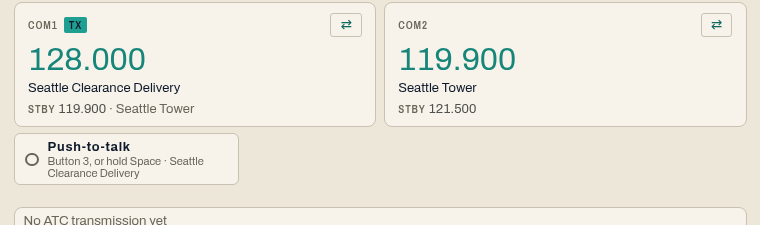
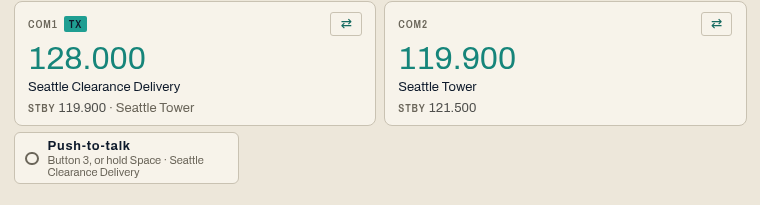
SOT-240: review fixes (Settings paths, Mac rename note, Learn button, prerelease row, crop)

diff --git a/AGENTS.md b/AGENTS.md
@@ -30,7 +30,7 @@ The public documentation site for SeventyOneTen, AI air traffic control for X-Pl
   - the first release is suggested as `v1.0.0`; until it is cut, the site at the root is the old, unversioned build.
 - **A full audit of the site** (owner, 2026-10-19, verbatim: "Are you review the docs page for other updates?"). Every page was checked against the latest stable releases (client 0.19.0, gateway 0.8.2, pilot site 0.7.0) and, where it matters, the client's 0.20 prerelease. What came out of it, as rules for the next change:
   - **Settings is one scrolling page of six sections** under a sticky row of buttons since client 0.17.0: **Your setup**, **How ATC sounds**, **X-Plane data**, **Your account**, **Appearance**, **Advanced**. `docs/settings.md` follows the window's section names and field labels exactly; the old "General" and "X-Plane data" tabs and the **Settings > Audio**, **Settings > Display** and **Settings > Simulator** paths are gone from the site. Change them together when the window changes. **(Superseded 2026-11-16, SOT-240: Settings is now one section at a time, seven sections, with a Save bar; see the entry below.)**
-  - **"Gateway" is not a pilot-facing word** (the Coordinator's rule for this audit; it extends the cloud-wording rule above and replaces the diagram's "voice gateway" with "the ATC service"). The one place it stays is the services pill's own label, **Gateway: connected**, and the header's **Gateway** version, because the pilot has to find them in the window and the client still shows them (its own `tests/test_pilot_words.py` lists them as waiting for the owner). Quote the label once, describe it as the connection to the ATC service, and drop the word when the client drops it. The same goes for **Scribe**, which is a label of the Speech recognition setting. **(Superseded 2026-11-16, SOT-240: the client says "ATC service" everywhere, so the pill and the version line are no longer exceptions.)**
+  - **"Gateway" is not a pilot-facing word** (the Coordinator's rule for this audit; it extends the cloud-wording rule above and replaces the diagram's "voice gateway" with "the ATC service"). The one place it stays is the services pill's own label, **Gateway: connected**, and the header's **Gateway** version, because the pilot has to find them in the window and the client still shows them (its own `tests/test_pilot_words.py` lists them as waiting for the owner). Quote the label once, describe it as the connection to the ATC service, and drop the word when the client drops it. The same goes for **Scribe**, which is a label of the Speech recognition setting. **(Superseded 2026-11-16, SOT-240: the client says "ATC service" everywhere, so the pill and the version line are no longer exceptions. The sentence about **Scribe** still stands: the client still says "Scribe, which knows your flight's names".)**
   - **"Training" is not a pilot-facing word** either, except in the quoted ATC phrase "unable, I have not completed that training" (ATC's own words; it was already on the site, in `docs/index.md`, `docs/features/`, `docs/how-it-works.md` and `docs/known-limitations.md`, before the audit, and the audit kept it as an accepted quote) and in the disclaimer sentence below (owner, 2026-10-19). Do not remove either in a later audit. The audit's first version of the home page's disclaimer read "It must never be used for real-world flying, flight instruction or navigation." and the owner then added the sentence in the next entry.
   - **Linux is a prerelease until a stable client carries it.** The AppImage first shipped in client 0.20.0-rc.3; stable is 0.19.0. `docs/install-linux.md`, the home page, `docs/known-limitations.md` and Settings (Updates) say so, and the note goes when a stable release carries Linux. The Mac page stays "coming soon". (Superseded 2026-10-28: the Mac is a prerelease like Linux; see the refresh entry below.)
   - **Screenshots must not show a voice name.** The two window screenshots (client 0.9.2: an older layout, a Gateway version in the header and voice names at the end of the log lines) were taken out of the pages and the repository, because the owner's voice rules (2026-10-13, above) forbid showing a voice name. New ones need to come from the current client's demo data (`scripts/panel_shots.py` in the client), with the log lines as the current window draws them, and then go back on the home page and `docs/window.md`.

diff --git a/docs/settings.md b/docs/settings.md
@@ -65,7 +65,7 @@ The radio voices are off by default. With them on, each controller on the radio 
 
 ## Push-to-talk
 
-Holding **Space** on the Radio view always transmits. **Also transmit with** adds one more way:
+During a flight, holding **Space** on the Radio view always transmits. **Also transmit with** adds one more way:
 
 | Choice | What it does |
 |---|---|
@@ -78,9 +78,9 @@ Holding **Space** on the Radio view always transmits. **Also transmit with** add
 |---|---|
 | ![The push-to-talk button in the window](assets/client-ptt-button.png) | ![The thin transmit light that replaces it](assets/client-ptt-light.png) |
 
-For a yoke or joystick button, press **Learn button**, then press and release the button you want within 10 seconds. X-Plane must be running. The client reads the button through X-Plane, so anything X-Plane sees as a joystick button works. The client says "Learned button 5 and saved it" (with your button's number), and **Button index** shows it. To go back to the button in the window, set **Also transmit with** to **Only this window**.
+For a yoke or joystick button, first choose **A yoke or joystick button, through X-Plane**: **Learn button** and **Button index** appear then. Press **Learn button**, then press and release the button you want within 10 seconds. X-Plane must be running. The client reads the button through X-Plane, so anything X-Plane sees as a joystick button works. The client says "Learned button 5 and saved it" (with your button's number), and **Button index** shows it. To go back to the button in the window, set **Also transmit with** to **Only this window**.
 
-(When you run the client from a console window, there is a third choice, **Enter in the console window (toggles)**. The installed app has no console, so it does not show it.)
+(When you run the client from a console window, **Advanced** has a row to transmit with Enter in that window. The installed app has no console, so it does not show it.)
 
 ### Phone calls
 
@@ -124,7 +124,7 @@ This part installs the FAA's current procedures into your X-Plane, and takes the
 The installed app asks the pilot site for the newest version when it starts, and once a day while it is open. A newer version shows a banner above the views: **What changed**, **Update now** and **Later**. The banner waits until your flight has ended, and nothing is installed during a flight. **Update now** downloads the new version, checks it, installs it, and the app opens again by itself. On Windows it runs the installer; on Linux it replaces the AppImage file (see [Install on Linux](install-linux.md#updates)); on a Mac it replaces the app, which must be in Applications or another folder you can write to (see [Install on a Mac](install-mac.md#updates)). **Later** puts that version off until a newer one comes, or until you start the app again.
 
 - **Check now** checks on request, and says if it could not.
-- **Receive prereleases: early versions, to try before everyone gets them** is off unless you turn it on. On, you are offered early versions too. A prerelease is a build for testing; it can have faults, and a later change to the service can stop it working until you update. Turn it on only if you have been asked to.
+- **Receive prereleases: early versions, to try before everyone gets them** is shown only on accounts that may receive prereleases. It is off unless you turn it on. On, you are offered early versions too. A prerelease is a build for testing; it can have faults, and a later change to the service can stop it working until you update. Turn it on only if you have been asked to.
 - If ATC needs a newer client than yours, the banner says **Update required** and has no **Later**.
 
 ### App menu (Linux AppImage)

diff --git a/docs/install-mac.md b/docs/install-mac.md
@@ -28,6 +28,9 @@ The Mac app is new and has been run by fewer pilots than the Windows one. If som
 
 If you said no by mistake, open *System Settings > Privacy & Security > Microphone* and switch on **SeventyOneTen**.
 
+!!! note "Installed it before the rename?"
+    An app installed before this release can keep its old name in Applications until its next update; it is the same app. A Dock icon pinned to the old app may need pinning again. When you remove the app, remove whichever name you have in Applications.
+
 From here, [set up and sign in](getting-started.md#set-up-the-first-time) exactly as on Windows.
 
 ## Is this the right file?
@@ -50,7 +53,7 @@ The app asks the pilot site for the newest version when it starts, and once a da
 
 **Update now** downloads the new version, checks that it is the release that was offered and that it is this app, replaces the app and opens it again by itself. If anything is wrong, your old app is left as it was and the banner says why.
 
-Because it replaces the app, the app must be in **Applications** (or another folder you can write to). An app opened straight from the disk image, or left in Downloads, is not updated: move it to Applications first. Until the Mac app is in a stable release, newer Mac builds are prereleases, and the app offers a prerelease only when **Receive prereleases** is on in **Settings > Your account > Updates**: see [Updates](settings.md#updates).
+Because it replaces the app, the app must be in **Applications** (or another folder you can write to). An app opened straight from the disk image, or left in Downloads, is not updated: move it to Applications first. Until the Mac app is in a stable release, newer Mac builds are prereleases, and the app offers a prerelease only when **Receive prereleases** is on in **Settings > Account > Updates**: see [Updates](settings.md#updates).
 
 ## Where things are kept
 

diff --git a/docs/troubleshooting.md b/docs/troubleshooting.md
@@ -46,7 +46,7 @@ Nothing is sent to ATC when a press is refused.
 
 Your microphone is not reaching the client.
 
-- *Windows Settings > Privacy & security > Microphone*: allow desktop apps. On a Mac, open *System Settings > Privacy & Security > Microphone* and switch on **SeventyOneTen**. On Linux, check your desktop's sound settings and that the microphone is not muted.
+- *Windows Settings > Privacy & security > Microphone*: allow desktop apps. On a Mac, open *System Settings > Privacy & Security > Microphone* and switch on **SeventyOneTen** (an app installed before the rename may still carry its old name in Applications until its next update). On Linux, check your desktop's sound settings and that the microphone is not muted.
 - **Settings > Sound > Audio > Microphone**: pick the right device. **Test microphone**, just below, shows a level meter and says **We can hear you** when the microphone works.
 - Push-to-talk releases when the window loses focus. To transmit while X-Plane has focus, use a [yoke or joystick button](settings.md#push-to-talk).
 
@@ -131,4 +131,4 @@ The **1**, **2** and **⇄** buttons write to X-Plane. They are greyed out while
 Check the [known limitations](known-limitations.md) first. Then send the owner:
 
 1. What you said and what you expected, with the time.
-2. The log file: **Settings**, at the bottom, **Open log folder**. It never contains your sign-in or any audio.
+2. The log file: **Settings > About and support > Open log folder**. It never contains your sign-in or any audio.

diff --git a/docs/install-linux.md b/docs/install-linux.md
@@ -48,7 +48,7 @@ You stay signed in for 30 days, across restarts, when your desktop has a keyring
 
 The app asks the pilot site for the newest version when it starts, and once a day while it is open. A newer version shows a banner: **What changed**, **Update now** and **Later**. The banner waits until your flight has ended, and nothing is installed during a flight.
 
-**Update now** replaces the AppImage file with the new version, checks it first, and opens the app again by itself. Because it replaces the file, the AppImage must be somewhere you can write to, such as your home folder. Until Linux is in a stable release, newer Linux builds are prereleases, and the app offers a prerelease only when **Receive prereleases** is on in **Settings > Your account > Updates**: see [Updates](settings.md#updates). If an update fails, your old file is left as it was and the banner says why.
+**Update now** replaces the AppImage file with the new version, checks it first, and opens the app again by itself. Because it replaces the file, the AppImage must be somewhere you can write to, such as your home folder. Until Linux is in a stable release, newer Linux builds are prereleases, and the app offers a prerelease only when **Receive prereleases** is on in **Settings > Account > Updates**: see [Updates](settings.md#updates). If an update fails, your old file is left as it was and the banner says why.
 
 ## Where things are kept
 

diff --git a/docs/first-flight.md b/docs/first-flight.md
@@ -33,7 +33,7 @@ Under the lines are the buttons:
 - **Rejoin KSEA to KPDX** (with your own airports) appears when a flight you were in can still be rejoined, which is for about ten minutes after you closed the client or lost it.
 - **Start KSEA to KPDX from my account** appears when a plan you [sent to your account](send-a-plan.md) is waiting (client 0.20 prerelease). It opens the New flight dialog with the plan filled in for you to check. A plan you have already flown is not offered again.
 
-After a flight ends, a line above the buttons says so and why. The log stays under the panel, so you can still read what happened; the radios and cards of the flight that ended are gone.
+After a flight ends, a line under the heading, above the three lines, says so and why. The log stays under the panel, so you can still read what happened; the radios and cards of the flight that ended are gone.
 
 !!! tip "The first flight after installing takes longer"
     The first time, the client reads the headers of your X-Plane scenery once, so it can answer ATC's questions about taxiways and parking. The dialog shows a progress bar. On a slow disk this can take a minute or more. After that, only new or updated scenery is read.
